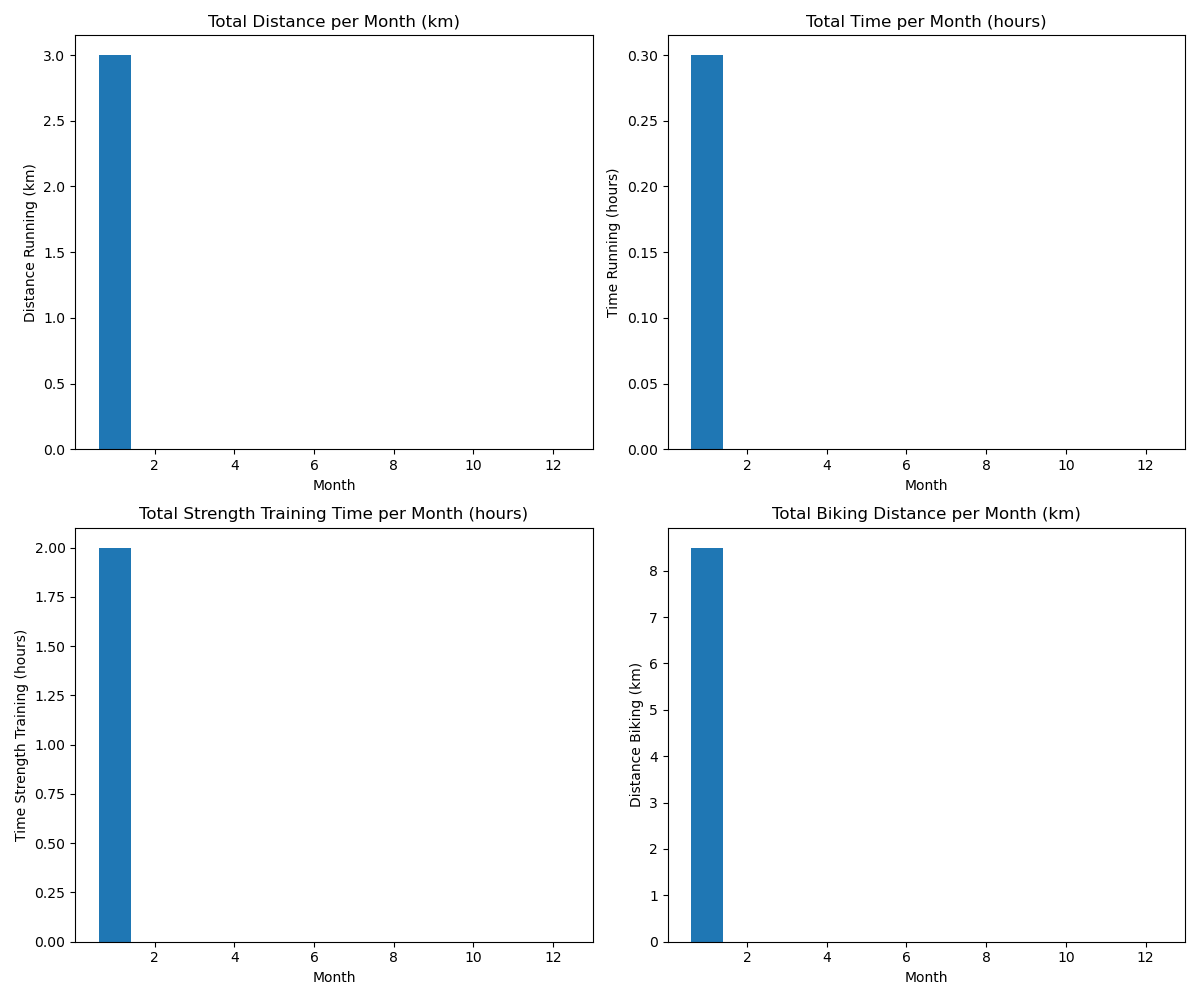
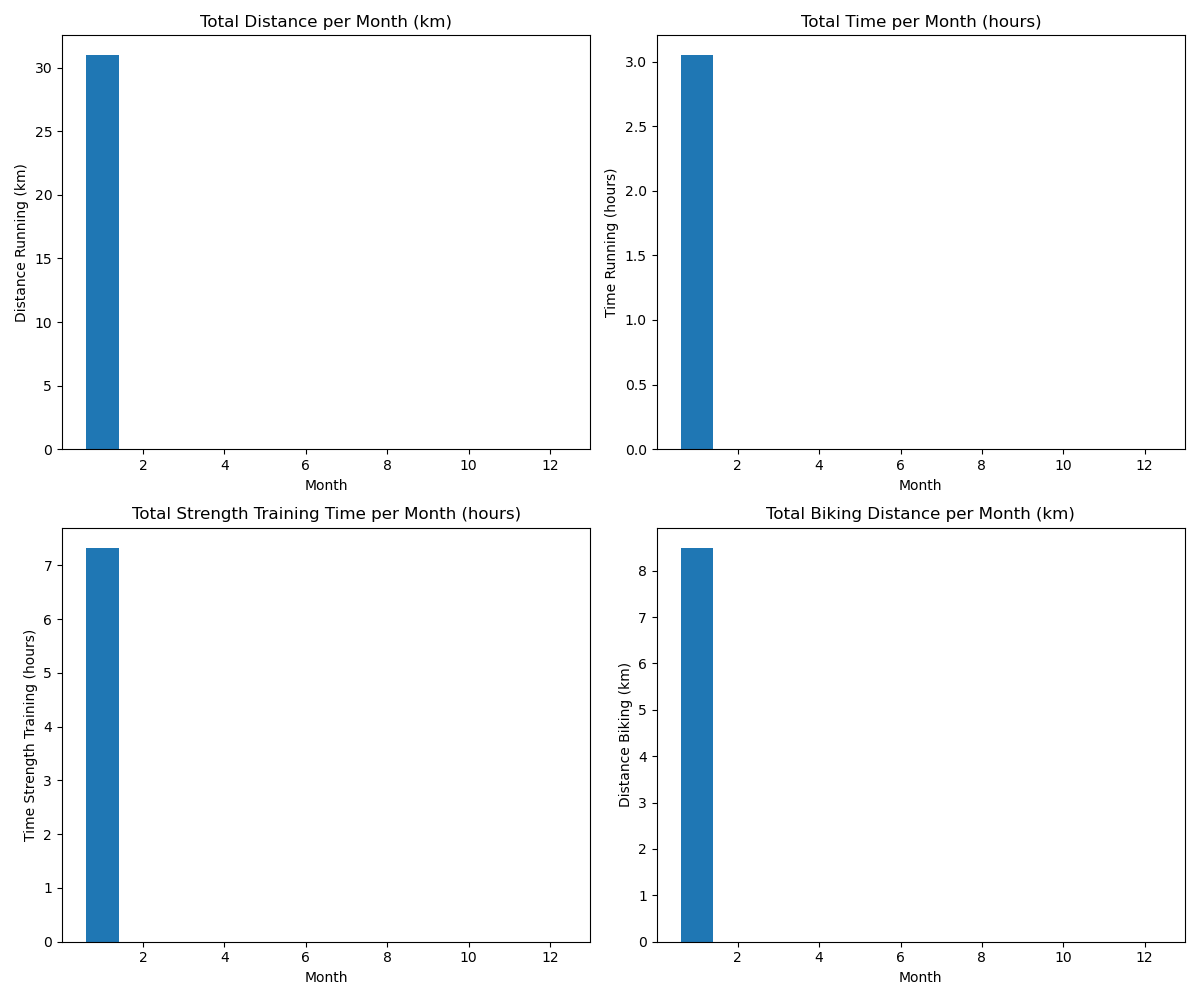
update 11.01

diff --git a/Sport/Sport_2026_report.md b/Sport/Sport_2026_report.md
@@ -3,18 +3,18 @@
 ## Sport Counts
 | type   |   count |
 |:-------|--------:|
-| F      |       2 |
-| Total  |       2 |
+| F      |       8 |
+| Total  |       8 |
 
 ## Summary
-- **Total distance run on treadmill:** 3.00 km
+- **Total distance run on treadmill:** 31.00 km
 - **Total distance run outside:** 0.00 km
 - **Total distance cycled:** 8.50 km
 - **Total distance swimming:** 0.00 km
-- **Total time spent on strength training:** 2h 00min
+- **Total time spent on strength training:** 7h 20min
 
 ## Average Speeds
-- **Treadmill running:** 10.00 km/h
+- **Treadmill running:** 10.26 km/h
 - **Outside running:** nan km/h
 - **Cycling:** 23.91 km/h
 - **Swimming:** nan km/h
